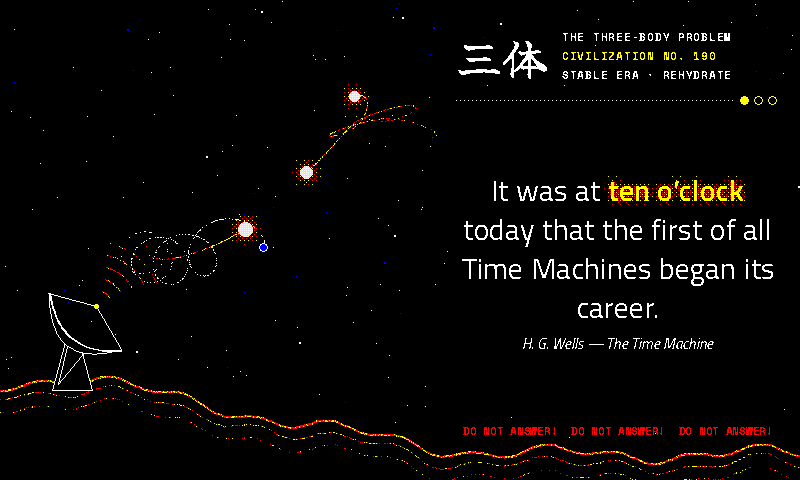
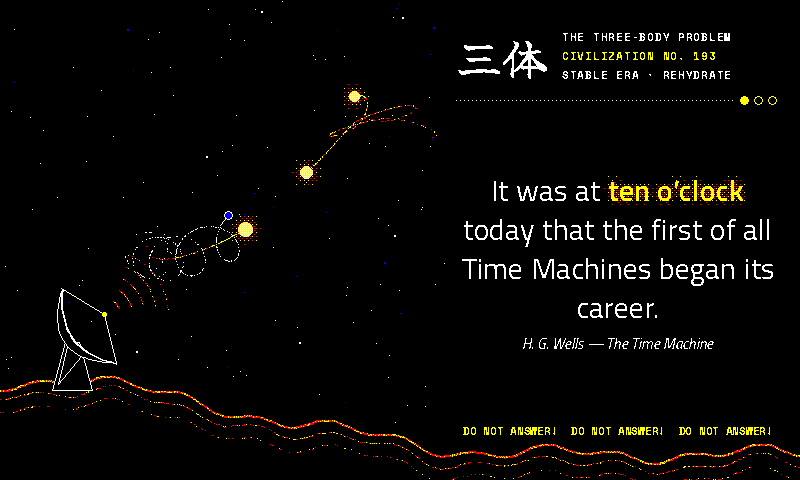
trisolaris: review fixes — physics, aim, legibility, one rasterizer
- Check burn/loss on every leapfrog step, not every sample: one planet per
  day passed through a sun and out again between samples and survived.
- Reborn planets use the circular speed of the softened force law; the
  Keplerian sqrt(m/r) was ~5% fast and started every orbit eccentric.
- Derive the dish axis from the projected barycentre. The hardcoded -52°
  pointed 18° above the system while the docs said it aimed at it.
- Keep stars out of the whole text column; 26 sat inside the masthead,
  header chrome and warning on the committed seed.
- Paint DO NOT ANSWER in solid yellow; solid red at 11px barely clears
  the panel's black.
- Confine sun halos to empty sky so they no longer stipple over the
  dish's wavefronts.
- Merge the two line rasterizers into _trisolaris_stipple_line, and fix
  the wake's yellow share to hot + (1 - hot) * 3/8 as documented.
- Drop the unused image parameter from _trisolaris_paint_header.

New fences: starless text column, dish-aim bearing, softened circular
rebirth, and a step-level watch of the integrator (the stored samples
cannot show a mid-sample pass). Both physics fences were verified failing
against their reintroduced bugs. Golden fixture and preview regenerated.

Claude-Session: https://claude.ai/code/session_01XRkCjyFqSejok2xkonHZ6F

diff --git a/idle_hours/render_quote.py b/idle_hours/render_quote.py
@@ -24275,9 +24275,9 @@ def render_control_frame(time_str: str, quote_row: dict, width: int, height: int
 # any of them that breaks the dance fails a test rather than a panel.
 #
 # **Composition.** The orrery owns the left of the canvas. At the foot, the
-# Red Coast Base dish stands black against the dusk on Radar Peak, its beam
-# dotted up toward the system — Ye Wenjie's transmission, sent with the Sun as
-# an amplifier. The quote sits in the dark sky on the right under a ``三体``
+# Red Coast Base dish stands in white line-work on Radar Peak, aimed at the
+# system's barycentre with a fan of wavefronts leaving its feed — Ye Wenjie's
+# transmission, sent with the Sun as an amplifier. The quote sits in the dark sky on the right under a ``三体``
 # masthead, the matched phrase lit as sunlight (a yellow core in the bakelite
 # split-band tangerine bloom), the prose plain solid white. Along
 # the foot runs the reply from the Trisolaran pacifist that closes the first
@@ -24321,7 +24321,6 @@ _TRISOLARIS_ORRERY_CLIP = (0, 0, 446, 420)
 _TRISOLARIS_COLUMN = (456, 780)        # the quote column's x extent
 _TRISOLARIS_QUOTE_RECT = (456, 118, 780, 372)
 _TRISOLARIS_DISH_X = 72                # the dish pedestal; its y comes from the ridge
-_TRISOLARIS_DISH_AIM_DEG = -52         # screen angle of the dish axis: up and to the right
 _TRISOLARIS_SUN_RADII = (6, 5, 7)
 _TRISOLARIS_STAR_SEED = 0x3B0D1E5
 _TRISOLARIS_WARNING = "DO NOT ANSWER!"
@@ -24376,7 +24375,12 @@ def _trisolaris_rebirth(pos, vel):
                       for j in range(3) if j != i)
         if nearest > best:
             best, home = nearest, i
-    speed = math.sqrt(_TRISOLARIS_MASSES[home] / _TRISOLARIS_REBIRTH_RADIUS)
+    # Circular speed under the *softened* force law the planet actually feels:
+    # v^2 / r = m r / (r^2 + eps^2)^(3/2). The Keplerian sqrt(m / r) is ~5% too
+    # fast at this radius and starts every civilization on an eccentric orbit.
+    r = _TRISOLARIS_REBIRTH_RADIUS
+    q = r * r + _TRISOLARIS_PLANET_SOFTENING2
+    speed = r * math.sqrt(_TRISOLARIS_MASSES[home] / (q * math.sqrt(q)))
     return ([pos[home][0] + _TRISOLARIS_REBIRTH_RADIUS, pos[home][1]],
             [vel[home][0], vel[home][1] + speed])
 
@@ -24427,13 +24431,16 @@ def _trisolaris_ephemeris() -> tuple:
                 vel[i][1] += half * ay[i]
             pv[0] += half * pax
             pv[1] += half * pay
-        burned = any((p[0] - s[0]) * (p[0] - s[0]) + (p[1] - s[1]) * (p[1] - s[1])
-                     < _TRISOLARIS_BURN_RADIUS2 for s in pos)
-        lost = p[0] * p[0] + p[1] * p[1] > _TRISOLARIS_LOST_RADIUS2
-        if burned or lost:
-            civilization += 1
-            p, pv = _trisolaris_rebirth(pos, vel)
-            pax, pay, pulls = _trisolaris_planet_accel(p, pos)
+            # Checked every step, not every sample: a fast pass can dip inside
+            # the burn radius and come back out between two samples, and a
+            # sample-boundary check let one such planet per day survive.
+            burned = any((p[0] - s[0]) * (p[0] - s[0]) + (p[1] - s[1]) * (p[1] - s[1])
+                         < _TRISOLARIS_BURN_RADIUS2 for s in pos)
+            lost = p[0] * p[0] + p[1] * p[1] > _TRISOLARIS_LOST_RADIUS2
+            if burned or lost:
+                civilization += 1
+                p, pv = _trisolaris_rebirth(pos, vel)
+                pax, pay, pulls = _trisolaris_planet_accel(p, pos)
     _TRISOLARIS_EPHEMERIS = tuple(samples)
     return _TRISOLARIS_EPHEMERIS
 
@@ -24497,20 +24504,22 @@ def _trisolaris_ridge_y(x: float) -> int:
 def _trisolaris_paint_sky(image: Image.Image) -> None:
     """Black space and a seeded star field, one star in five a blue one.
 
-    Stars stay out of the quote column and its header, where a stray white
-    pixel beside a letterform reads as a stroke of it.
+    Stars stay out of the whole text column — masthead, quote, byline and
+    warning — where a stray white pixel beside a letterform reads as a stroke
+    of it. Excluding only the quote block left 26 stars inside the header and
+    footer text on the committed seed.
     """
     draw = ImageDraw.Draw(image)
     draw.rectangle((0, 0, 799, 479), fill=SPECTRA6["black"])
     px = image.load()
     rng = random.Random(_TRISOLARIS_STAR_SEED)
-    qx0, qy0, qx1, qy1 = _TRISOLARIS_QUOTE_RECT
+    column_x0 = _TRISOLARIS_COLUMN[0] - 10
     for _ in range(230):
         x = int(rng.random() * 800)
         y = int(rng.random() * 440)
         big = rng.random() < 0.1
         blue = rng.random() < 0.18
-        if qx0 - 6 <= x <= qx1 + 6 and qy0 - 30 <= y <= qy1 + 34:
+        if x >= column_x0 - 1:
             continue
         if y >= _trisolaris_ridge_y(x) - 4:
             continue
@@ -24521,33 +24530,43 @@ def _trisolaris_paint_sky(image: Image.Image) -> None:
             px[x, y] = ink
 
 
-def _trisolaris_plot_segment(px, a, b, ink, keep: float, salt: int, hot: float = 0.0) -> None:
-    """Stipple a straight segment: each pixel along it survives with
-    probability ``keep`` (a position hash, so it is deterministic), clipped to
-    the orrery. ``ink=None`` paints a cooling sun trail instead — yellow with
-    probability ``hot`` and a 3/8 yellow share in the red remainder, so even
-    the oldest wake reads as warm tangerine rather than as the panel's red,
-    which sits within a few luminance points of its black."""
-    cx0, cy0, cx1, cy1 = _TRISOLARIS_ORRERY_CLIP
-    steps = int(max(abs(b[0] - a[0]), abs(b[1] - a[1]))) + 1
-    for k in range(steps):
-        t = k / steps
-        x = int(a[0] + (b[0] - a[0]) * t)
-        y = int(a[1] + (b[1] - a[1]) * t)
-        if cx0 <= x < cx1 and cy0 <= y < cy1 and _flow_stroke_hash(x, y, salt) < keep:
-            if ink is None:
-                roll = _flow_stroke_hash(x, y, salt + 100)
-                warm = roll < hot or roll < 0.375
-                px[x, y] = SPECTRA6["yellow"] if warm else SPECTRA6["red"]
-            else:
-                px[x, y] = ink
+def _trisolaris_stipple_line(px, points, *, salt: int, keep: float = 1.0, width: int = 1,
+                             ink=None, hot: float = 0.0, clip=(0, 0, 800, 480)) -> None:
+    """Stipple a polyline: each pixel along it survives with probability
+    ``keep`` (a position hash, so it is deterministic), clipped to ``clip``.
+
+    ``ink=None`` paints tangerine — yellow with probability
+    ``hot + (1 - hot) * 3/8``, red otherwise — so a warm line reads as warm
+    even at ``hot=0``, where solid red would sit within a few luminance points
+    of the panel's black. Every warm line on the frame (sun wakes, the ridge,
+    the transmission) goes through here; ``hot`` is how a sun's wake starts
+    yellow at the sun and cools toward the 3/8 floor as it ages.
+    """
+    cx0, cy0, cx1, cy1 = clip
+    warm_share = hot + (1.0 - hot) * 0.375
+    for (ax, ay), (bx, by) in zip(points, points[1:]):
+        steps = int(max(abs(bx - ax), abs(by - ay))) + 1
+        for k in range(steps + 1):
+            t = k / steps
+            x0 = int(ax + (bx - ax) * t)
+            y0 = int(ay + (by - ay) * t)
+            for dy in range(width):
+                x, y = x0, y0 + dy
+                if not (cx0 <= x < cx1 and cy0 <= y < cy1) or _flow_stroke_hash(x, y, salt) >= keep:
+                    continue
+                if ink is None:
+                    warm = _flow_stroke_hash(x, y, salt + 100) < warm_share
+                    px[x, y] = SPECTRA6["yellow"] if warm else SPECTRA6["red"]
+                else:
+                    px[x, y] = ink
 
 
 def _trisolaris_paint_orbits(image: Image.Image, index: int) -> None:
     """The last hour of each body's path, cooling as it ages.
 
-    A sun's trail is yellow for its most recent quarter and red behind that,
-    thinning toward the oldest end — a hot body leaving a cooling wake. The
+    A sun's trail starts yellow at the sun and cools to tangerine over its
+    first 40%, thinning toward the oldest end — a hot body leaving a cooling
+    wake. The
     planet's trail is sparse white, and is drawn only back to the planet's most
     recent rebirth: a new civilization begins in a new orbit, and the jump
     between the two is not a path the planet travelled.
@@ -24561,19 +24580,20 @@ def _trisolaris_paint_orbits(image: Image.Image, index: int) -> None:
         keep = 0.85 - 0.7 * age
         before, after = ephemeris[k - 1], ephemeris[k]
         for i in range(3):
-            _trisolaris_plot_segment(px, _trisolaris_project(before[0][i]),
-                                     _trisolaris_project(after[0][i]), None, keep, 40 + i,
-                                     hot=max(0.0, 1.0 - age * 2.5))
+            segment = [_trisolaris_project(before[0][i]), _trisolaris_project(after[0][i])]
+            _trisolaris_stipple_line(px, segment, salt=40 + i, keep=keep,
+                                     hot=max(0.0, 1.0 - age * 2.5), clip=_TRISOLARIS_ORRERY_CLIP)
         if before[3] == ephemeris[index][3]:
-            _trisolaris_plot_segment(px, _trisolaris_project(before[1]),
-                                     _trisolaris_project(after[1]),
-                                     SPECTRA6["white"], keep * 0.7, 47)
+            segment = [_trisolaris_project(before[1]), _trisolaris_project(after[1])]
+            _trisolaris_stipple_line(px, segment, salt=47, keep=keep * 0.7,
+                                     ink=SPECTRA6["white"], clip=_TRISOLARIS_ORRERY_CLIP)
 
 
 def _trisolaris_paint_bodies(image: Image.Image, index: int) -> None:
     """Three suns as gold blooms, then the planet as a blue world with a white
     lit limb. The suns share one mask so two near each other merge into one
-    glare rather than double-exposing."""
+    glare rather than double-exposing. The halo is confined to empty sky, so
+    it dims into the trails and the dish rather than painting over them."""
     sample = _trisolaris_ephemeris()[index]
     mask = Image.new("L", image.size, 0)
     mdraw = ImageDraw.Draw(mask)
@@ -24584,6 +24604,9 @@ def _trisolaris_paint_bodies(image: Image.Image, index: int) -> None:
         radius=6, gamma=1.3, cap=0.75, tile=BAYER_8x8,
         glow_minor=SPECTRA6["yellow"], glow_minor_share=0.375,
         core_minor=SPECTRA6["white"], core_minor_share=0.25,
+        # Only onto empty sky: a sun passing the lower-left of the sky box
+        # would otherwise stipple its halo over the dish's wavefront arcs.
+        ground=frozenset({SPECTRA6["black"], SPECTRA6["blue"]}),
     )
     x, y = _trisolaris_project(sample[1])
     cx0, cy0, cx1, cy1 = _TRISOLARIS_ORRERY_CLIP
@@ -24604,7 +24627,11 @@ def _trisolaris_dish_geometry(ridge_top: int):
     pivot = (x, ridge_top - 46)
     pedestal = [(x - 20, ridge_top + 6), (x - 7, pivot[1] + 4), (x + 7, pivot[1] + 4),
                 (x + 20, ridge_top + 6)]
-    aim = math.radians(_TRISOLARIS_DISH_AIM_DEG)
+    # Aimed at the system's barycentre — the origin of the integration's
+    # coordinates, since the initial conditions carry zero total momentum —
+    # so the transmission points where the three suns actually dance.
+    tx, ty = _trisolaris_project((0.0, 0.0))
+    aim = math.atan2(ty - pivot[1], tx - pivot[0])
     ux, uy = math.cos(aim), math.sin(aim)         # along the dish axis
     vx, vy = -uy, ux                              # across the aperture
     half, depth, back = 46, 21, 9
@@ -24617,23 +24644,6 @@ def _trisolaris_dish_geometry(ridge_top: int):
         rear.append((pivot[0] + half * s * vx + b * ux, pivot[1] + half * s * vy + b * uy))
     feed = (pivot[0] + 40 * ux, pivot[1] + 40 * uy)
     return pedestal, face, rear, pivot, feed, (ux, uy)
-
-
-def _trisolaris_warm_line(px, points, width: int, salt: int, keep: float = 1.0) -> None:
-    """A polyline in tangerine — red carrying a 3/8 yellow share, chosen per
-    pixel by position hash. Solid red is the panel's dimmest ink against its
-    black, so every warm line on this frame goes through here."""
-    for (ax, ay), (bx, by) in zip(points, points[1:]):
-        steps = int(max(abs(bx - ax), abs(by - ay))) + 1
-        for k in range(steps + 1):
-            t = k / steps
-            cx = ax + (bx - ax) * t
-            cy = ay + (by - ay) * t
-            for dy in range(width):
-                x, y = int(cx), int(cy) + dy
-                if 0 <= x < 800 and 0 <= y < 480 and _flow_stroke_hash(x, y, salt) < keep:
-                    warm = _flow_stroke_hash(x, y, salt + 1) < 0.375
-                    px[x, y] = SPECTRA6["yellow"] if warm else SPECTRA6["red"]
 
 
 def _trisolaris_paint_red_coast(image: Image.Image) -> None:
@@ -24655,11 +24665,11 @@ def _trisolaris_paint_red_coast(image: Image.Image) -> None:
     skyline = [(x, _trisolaris_ridge_y(x)) for x in range(0, 801, 4)]
     draw.polygon(skyline + [(800, 480), (0, 480)], fill=SPECTRA6["black"])
     px = image.load()
-    _trisolaris_warm_line(px, skyline, 2, 61)
+    _trisolaris_stipple_line(px, skyline, salt=61, width=2)
     for step, keep in ((11, 0.55), (24, 0.3)):
         contour = [(x, _trisolaris_ridge_y(x) + step + int(3 * math.sin(x * 0.05 + step)))
                    for x in range(0, 801, 4)]
-        _trisolaris_warm_line(px, contour, 1, 63 + step, keep)
+        _trisolaris_stipple_line(px, contour, salt=63 + step, keep=keep)
 
     ridge_top = _trisolaris_ridge_y(_TRISOLARIS_DISH_X)
     pedestal, face, rear, pivot, feed, (ux, uy) = _trisolaris_dish_geometry(ridge_top)
@@ -24683,10 +24693,10 @@ def _trisolaris_paint_red_coast(image: Image.Image) -> None:
         arc = [(feed[0] + radius * math.cos(aim - spread + 2 * spread * k / steps),
                 feed[1] + radius * math.sin(aim - spread + 2 * spread * k / steps))
                for k in range(steps + 1)]
-        _trisolaris_warm_line(px, arc, 1, 91 + ring, keep)
+        _trisolaris_stipple_line(px, arc, salt=91 + ring, keep=keep)
 
 
-def _trisolaris_paint_header(image: Image.Image, draw: ImageDraw.ImageDraw, time_str: str) -> None:
+def _trisolaris_paint_header(draw: ImageDraw.ImageDraw, time_str: str) -> None:
     """``三体`` masthead, the title, the civilization number and the era.
 
     The era carries its own glyph: three small discs for the three suns, one
@@ -24748,7 +24758,11 @@ def _trisolaris_paint_credits(draw: ImageDraw.ImageDraw, quote_row: dict, top: i
 
 
 def _trisolaris_paint_warning(draw: ImageDraw.ImageDraw) -> None:
-    """The pacifist's reply, three times along the foot."""
+    """The pacifist's reply, three times along the foot.
+
+    Solid yellow, not red: at 11px red barely clears the panel's black, and a
+    two-ink tangerine shreds a letterform that small.
+    """
     col_x0, col_x1 = _TRISOLARIS_COLUMN
     font = load_font([SPACEMONO_BOLD, *META_FONT_BOLD_CANDIDATES], 11)
     for repeats in (3, 2, 1):
@@ -24756,7 +24770,7 @@ def _trisolaris_paint_warning(draw: ImageDraw.ImageDraw) -> None:
         width = draw.textlength(text, font=font)
         if width <= col_x1 - col_x0:
             break
-    draw.text(((col_x0 + col_x1 - width) / 2, _TRISOLARIS_WARNING_Y), text, font=font, fill=SPECTRA6["red"])
+    draw.text(((col_x0 + col_x1 - width) / 2, _TRISOLARIS_WARNING_Y), text, font=font, fill=SPECTRA6["yellow"])
 
 
 def render_trisolaris_frame(time_str: str, quote_row: dict, width: int, height: int) -> Image.Image:
@@ -24768,7 +24782,7 @@ def render_trisolaris_frame(time_str: str, quote_row: dict, width: int, height: 
     _trisolaris_paint_red_coast(image)
     _trisolaris_paint_bodies(image, index)
     draw = ImageDraw.Draw(image)
-    _trisolaris_paint_header(image, draw, time_str)
+    _trisolaris_paint_header(draw, time_str)
     bottom = _trisolaris_paint_quote(image, draw, quote_row)
     _trisolaris_paint_credits(draw, quote_row, bottom)
     _trisolaris_paint_warning(draw)

diff --git a/tests/test_render_quote_themes.py b/tests/test_render_quote_themes.py
@@ -4283,6 +4283,71 @@ class TestTrisolarisFrame:
         chaotic = self._render(time_str=eras[False]).crop(header)
         assert pixel_bytes(stable) != pixel_bytes(chaotic)
 
+    def test_stars_stay_out_of_the_text_column(self):
+        """A star beside a letterform reads as a stroke of it, so the whole
+        column — masthead, header chrome, quote, byline, warning — is starless.
+        Excluding only the quote block left 26 stars inside the header and
+        footer text on the committed seed."""
+        image = Image.new("RGB", (800, 480), rq.SPECTRA6["black"])
+        rq._trisolaris_paint_sky(image)
+        column = image.crop((rq._TRISOLARIS_COLUMN[0] - 10, 0, 800, 480))
+        assert distinct_inks(column) == {rq.SPECTRA6["black"]}
+        assert rq.SPECTRA6["white"] in distinct_inks(image), "the star field painted nothing"
+
+    def test_the_dish_aims_at_the_barycentre(self):
+        """The transmission is aimed where the suns dance: the dish axis from
+        its pivot passes through the projected origin of the integration."""
+        ridge = rq._trisolaris_ridge_y(rq._TRISOLARIS_DISH_X)
+        _, _, _, pivot, _, (ux, uy) = rq._trisolaris_dish_geometry(ridge)
+        tx, ty = rq._trisolaris_project((0.0, 0.0))
+        bearing = math.atan2(ty - pivot[1], tx - pivot[0])
+        assert abs(math.atan2(uy, ux) - bearing) < 1e-9
+
+    def test_rebirth_is_circular_under_the_softened_force(self):
+        """The reborn planet's speed relative to its home sun is the circular
+        speed of the force law it actually feels: v^2 / r equals the softened
+        pull. The Keplerian sqrt(m / r) is ~5% fast and starts an eccentric
+        orbit."""
+        pos = [[0.0, 0.0], [40.0, 0.0], [41.0, 0.0]]       # sun 0 is the most isolated
+        vel = [[0.1, -0.2], [0.0, 0.0], [0.0, 0.0]]
+        p, pv = rq._trisolaris_rebirth(pos, vel)
+        r = math.dist(p, pos[0])
+        v = math.dist(pv, vel[0])
+        assert abs(r - rq._TRISOLARIS_REBIRTH_RADIUS) < 1e-12
+        softened_pull = rq._TRISOLARIS_MASSES[0] * r / (r * r + rq._TRISOLARIS_PLANET_SOFTENING2) ** 1.5
+        assert abs(v * v / r - softened_pull) < 1e-9
+        assert v < math.sqrt(rq._TRISOLARIS_MASSES[0] / r) * 0.97
+
+    def test_no_planet_survives_a_pass_inside_a_sun(self, monkeypatch):
+        """The death check runs on every leapfrog step, not every sample.
+
+        Stored samples cannot show this — they are taken after the check under
+        either scheme — so watch the integrator itself: every force evaluation
+        that finds the planet inside a sun's burn radius must be followed
+        immediately by a rebirth. A sample-boundary check let one planet per
+        day pass through a sun and out again between samples.
+        """
+        events = []
+        accel, rebirth = rq._trisolaris_planet_accel, rq._trisolaris_rebirth
+
+        def watched_accel(p, pos):
+            inside = any((p[0] - x) ** 2 + (p[1] - y) ** 2 < rq._TRISOLARIS_BURN_RADIUS2 for x, y in pos)
+            events.append(inside)
+            return accel(p, pos)
+
+        def watched_rebirth(pos, vel):
+            events.append("rebirth")
+            return rebirth(pos, vel)
+
+        monkeypatch.setattr(rq, "_trisolaris_planet_accel", watched_accel)
+        monkeypatch.setattr(rq, "_trisolaris_rebirth", watched_rebirth)
+        monkeypatch.setattr(rq, "_TRISOLARIS_EPHEMERIS", None)
+        rq._trisolaris_ephemeris()
+        burns = [k for k, e in enumerate(events) if e is True]
+        assert burns, "no planet ever came inside a sun — the fence proves nothing"
+        for k in burns:
+            assert events[k + 1] == "rebirth", f"planet survived a pass inside a sun at evaluation {k}"
+
     def test_malformed_time_falls_back_to_the_start_of_the_dial(self):
         assert rq._trisolaris_index("garbage") == rq._trisolaris_index("00:00")
         image = rq.render("garbage", make_row(**self.ROW), 800, 480, mode="production", theme="trisolaris")

diff --git a/CLAUDE.md b/CLAUDE.md
@@ -707,10 +707,10 @@ Two of those additions failed on their first cut, in the same direction: **too m
   - `carcosa` (black night / white Almendra body / solid-yellow matched phrase — **The King in Yellow**, Robert W. Chambers, 1895, staged as the play itself. A literary-layout theme with a heavy `draw_carcosa_border` painter, no `clear_rect` knockout: the decoration keeps to the margins the shared layout leaves free. **Curtains:** a tattered yellow drape down each side (≤ 34 px wide at the rail, so clear of a body column that never starts before x≈60), tied back to a blood-red cord and tassel, its inner edge torn by two incommensurate sines plus a periodic rent, its hem frayed into strands, with moth-holes and black stars eaten through the cloth. Fold creases are a 3 px red shadow under a 1 px black line, the red then Bayer-flipped to the R+Y 5/8:3/8 tangerine so the folds read as shadowed, decaying cloth. **Sky:** a sparse yellow haze across the top margin (a `position_noise` threshold, not a Bayer rank — at ~9% an ordered tile lattices) with six **black stars** rising in it ("Strange is the night where black stars rise"), each a black four-pointed star with a yellow rim, because a black shape has to be outlined to be seen against black. **The Yellow Sign** is centred over the proscenium, and it is an **original glyph**: Chambers never describes the Sign, and the familiar triskelion is a later artist's design, so it is drawn here as three hooked Archimedean arms off a ring, the third arm longer, with a stray dot beneath — almost symmetric, which is the unsettling part. **Lake Hali** along the foot: the twin suns sink half-set on the horizon, the spired towers of Carcosa stand black against them (kept low enough that both suns' crowns stay clear — the city stands against the suns, it does not hide them), a lit slit in the tallest towers, cloud-waves breaking along the shore to the left as rows of white crests, and the suns' reflections breaking into dashes that narrow with depth. The matched phrase is **solid** yellow — the one thing this theme must never do is soften the King's colour — so the inks are the same as `dark`'s by design; the painter and the face are what separate them. Both ornament slots pin to yellow so the Almendra Display quote marks paint solid. The right curtain hangs through the y=14-29 banner band, hence a `_DEBUG_LABEL_RIGHT_INSET` of 46. Every element is `ImageDraw` primitives plus bounds-checked per-pixel passes, with geometry scaled by `min(1, width/800, height/480)` so it clips cleanly at `/api/preview` sizes. No time surface of its own — the matched phrase carries the time. Saturation tier `0.7`.)
   - `control` (white void / black Oswald Bold body / Hiss-red matched phrase, **Remedy's *Control* (2019) — the Astral Plane as a title card**. A custom-render frame (`render_control_frame`). Three of the game's registers stacked on one page: the **Astral Plane** (a flat white void with isometric stone blocks floating in the margins and the Board's inverted black pyramid hanging from the top edge), the **Oldest House** (a brutalist concrete plinth across the foot carrying a black wayfinding sign in white condensed caps — the Bureau's ring-and-triangle device, FEDERAL BUREAU OF CONTROL over THE OLDEST HOUSE), and the **Hiss** (the matched phrase in solid red, bleeding a stippled coral halo into the white). **The blocks are drawn, not dithered plates**: each is three polygons under one upper-left light — a white top, a lit face at 25% black and a shadow face at 56% on the plain `BAYER_8x8` tile, outlined in black — so the flat machined geometry of the Plane comes out exactly; unjittered on purpose, because a jitter would put grain on a surface whose whole character is smoothness. The Board's pyramid is the same construction with its lit face at 68% and its shadow face solid, so it reads as the darkest solid on the page. **The plinth is the opposite surface, and is a dithered plate.** `idle_hours/assets/control_concrete.png` (800×88, produced by `scripts/generate_control_plate.py`) is a continuous-tone sheet of board-formed concrete — the timber grain of the shuttering, a tonal step per formwork panel with a soft recess at each joint, two horizontal lift joints, aggregate pits and lime specks, darkening toward the foot as a wall does below eye level — Floyd–Steinberg-dithered to white+black at render time via `_load_dithered_plate`, the `grimdark` / `letter` plate capability; the first draft's hash-jittered ordered stipple (the `bakelite` moulding recipe) stays as `_control_paint_concrete_stipple`, the fallback for a missing asset. Formwork seams and a row of tie-holes go on top in either case, without which a grey band is just a grey band. **The Hiss is the first bloom on a white ground.** `paint_neon_mask` had only ever lit dark grounds, where a falling density of a bright ink reads as light; a falling density of red on white reads instead as a stain spreading from the phrase, which is what the Hiss does to the House. `ground` is pinned to white so the halo cannot eat the black prose beside it, and the parameters (radius 6, cap 0.62, gamma 1.6) are deliberately heavier than they look correct at 1:1 — the `izakaya` lesson: a bloom tuned at pixel scale vanishes once the panel is box-averaged by viewing distance, and `tests/test_render_quote_themes.py::TestControlFrame` pins that the halo carries at least a fifth of the core's red. The prose is pasted from a *thresholded* mask rather than drawn antialiased: a mid-grey edge pixel is nearer red than black in RGB distance, so the palette snap would speckle black text with red. **Resonance is an echo, never a tear.** Three thin bands of the phrase are repeated a few pixels sideways as a half-density red stipple (`_CONTROL_RESONANCE`), the horizontal signal-tearing the game lays over Hiss-corrupted text — written only onto white, so it can neither cut a glyph of the phrase (the `vhs` lesson: the time phrase is the clock's job) nor overwrite the prose or the bloom. **The Board speaks in pairs**, and that is the attribution: the sign's right half reads `AUTHOR/ORIGIN:` and `WORK/VESSEL:` over the row's own author and title — labels in the Board's diction, values never invented; the column's budget is measured off the painted name run, and a title that still will not fit is shrunk to a floor and then ellipsised through the shared `fit_text_to_width`, never chopped mid-word. **No time surface beyond the matched phrase**: the Plane has no clock and a `SECTOR 07` would be a number bolted on, so `time_str` is `del`-asserted (the `pride` / `outrun` posture) and pinned byte-identical across every time. Composed at the canonical 800×480 and NEAREST-downsampled (the `metro` convention). Saturation tier `0.5` (white ground; the coral halo should stay a stain, not a fire-engine smear).)
   - `trisolaris` (black space / white Titillium Web body / sunlit yellow matched phrase, **Liu Cixin's *The Three-Body Problem* (三体, 2008)** — a custom-render frame (`render_trisolaris_frame`) whose sky is **computed, not drawn**: three suns and a massless planet are integrated under softened Newtonian gravity from committed initial conditions, and the clock advances the integration, so the frame is a *solution* of the three-body problem rather than a picture of one. Each minute of the twelve-hour dial is a fixed slice of simulated time (`_TRISOLARIS_SAMPLES_PER_MINUTE` quarter-minute samples, each `_TRISOLARIS_STEPS_PER_SAMPLE` leapfrog steps); noon and midnight both start the dial, and a 90-minute preroll means 12:00 already has a trail. `_trisolaris_ephemeris` integrates the whole day once per process (~0.1 s on a desktop; memoised because a contact sheet renders 144 frames in one process).
-    **The novel's mechanics fall out of the physics.** In the book's VR game a *stable era* is a stretch in which the planet orbits one sun while the other two are far away; here it is read off the integration — stable when the strongest sun's pull on the planet exceeds the next by `_TRISOLARIS_STABLE_DOMINANCE` — and the header prints `STABLE ERA · REHYDRATE` or `CHAOTIC ERA · DEHYDRATE` (the king's two orders) beside a three-disc glyph, one filled or all three. When the planet falls into a sun or is flung out of the system, that civilization is destroyed: the planet is reborn in a circular orbit about the most isolated sun and `CIVILIZATION NO.` advances, which is how the game numbers its civilizations. The planet's trail is broken at every rebirth so the teleport never draws as a streak (`TestTrisolarisFrame::test_the_planet_trail_breaks_at_a_rebirth`, verified failing against the reintroduced fault).
+    **The novel's mechanics fall out of the physics.** In the book's VR game a *stable era* is a stretch in which the planet orbits one sun while the other two are far away; here it is read off the integration — stable when the strongest sun's pull on the planet exceeds the next by `_TRISOLARIS_STABLE_DOMINANCE` — and the header prints `STABLE ERA · REHYDRATE` or `CHAOTIC ERA · DEHYDRATE` (the king's two orders) beside a three-disc glyph, one filled or all three. When the planet falls into a sun or is flung out of the system, that civilization is destroyed: the planet is reborn in a circular orbit about the most isolated sun and `CIVILIZATION NO.` advances. Both halves of that are done carefully: the burn and loss checks run on **every leapfrog step**, not every sample — a fast pass can dip inside the burn radius and back out between two samples, and the sample-boundary check let one such planet per day survive — and the rebirth speed is the circular speed under the *softened* force law the planet actually feels, `v² = m r² / (r² + ε²)^{3/2}`, because the Keplerian `√(m/r)` is ~5% too fast at the rebirth radius and started every civilization on an eccentric orbit. The counter itself is how the game numbers its civilizations. The planet's trail is broken at every rebirth so the teleport never draws as a streak (`TestTrisolarisFrame::test_the_planet_trail_breaks_at_a_rebirth`, verified failing against the reintroduced fault).
     **Byte-identical everywhere, by construction.** The integrator uses only `+ - * /` and `math.sqrt`, all correctly rounded under IEEE 754; `**` is deliberately kept out of the force law (`r2 * sqrt(r2)`, not `r2 ** 1.5`), because `pow` goes through the platform libm, which is not required to round correctly. Kick-drift-kick leapfrog at a fixed step with Plummer softening — an unsoftened close pass needs an adaptive step, and a step controller's float comparisons would make the frame platform-dependent. A test re-integrates in a fresh interpreter under a different `PYTHONHASHSEED` and compares the last sample's `repr`.
     **The initial conditions were searched, not guessed.** A generic bound three-body system ejects a member within a few dozen crossing times, which would leave the dial showing one sun receding off the panel. The constants were picked by an offline search over random zero-momentum starts for one whose suns stay bound for the whole window *and* whose planet lives through both eras with a handful of civilizations lost per day; `TestTrisolarisFrame` fences all three against the committed constants (plus the barycentre staying at the origin to 1e-9, which is what zero total momentum under pairwise-symmetric forces guarantees — and the point the dish's transmission aims at). The projection is fitted to the suns' whole-day paths, not the planet's: a lost planet flies far outside the system, and fitting it would shrink the suns to a speck.
-    **Composition.** The orrery owns the left of the canvas: each sun a gold bloom (yellow core with a white share, the bakelite split-band tangerine halo), its last hour of path trailing behind as a stipple that cools from yellow to tangerine and thins with age — *tangerine*, not solid red, because the panel's red sits within a few luminance points of its black (`_trisolaris_warm_line` carries every warm line on the frame for that reason). The planet is a blue disc with a white limb and a sparse white trail. At the foot, the Red Coast Base dish stands on Radar Peak as white **line-work** — face, back, feed struts, pedestal — over a tangerine crest line with two fainter contours, and a fan of wavefront arcs leaves its feed: Ye Wenjie's transmission. A black silhouette against a dusk glow was the first cut and failed both ways (the glow read as a red dune field sitting on the ridge, the black dish vanished above it), and a straight beam from dish to suns read as one more orbit trail. The quote sits in the dark sky on the right under a `三体` masthead in the bundled Yuji Boku, the prose solid white and the matched phrase lit as sunlight. The prose's cold blue halo was tried and removed: at radius 2 it read as a blue outline rather than as starlight. Along the foot runs the pacifist's reply that closes the first act, `DO NOT ANSWER!`, repeated as the column allows. **No digit of the time is printed**: the clock drives the simulation and therefore the era; the civilization number counts deaths, not hours. Composed at the canonical 800×480 and NEAREST-downsampled (the `metro` convention). Saturation tier `0.7` (black ground; every light is a falling-density bloom or a sparse stipple).)
+    **Composition.** The orrery owns the left of the canvas: each sun a gold bloom (yellow core with a white share, the bakelite split-band tangerine halo), its last hour of path trailing behind as a stipple that cools from yellow to tangerine and thins with age — *tangerine*, not solid red, because the panel's red sits within a few luminance points of its black (`_trisolaris_stipple_line` carries every warm line on the frame for that reason, and is the frame's one line rasterizer — the wake yellow share is `hot + (1 − hot) · 3/8`, so a wake cools smoothly to the tangerine floor rather than stepping onto it). The sun halos are confined to empty sky (`ground={black, blue}`) so a sun passing the lower-left of the sky box dims into the dish's wavefronts rather than stippling over them. The planet is a blue disc with a white limb and a sparse white trail. At the foot, the Red Coast Base dish stands on Radar Peak as white **line-work** — face, back, feed struts, pedestal — over a tangerine crest line with two fainter contours, and a fan of wavefront arcs leaves its feed: Ye Wenjie's transmission. The dish axis is *derived* — aimed from its pivot at the projected barycentre — rather than hardcoded; an early −52° constant pointed 18° above the system while the docs claimed it aimed at it. A black silhouette against a dusk glow was the first cut and failed both ways (the glow read as a red dune field sitting on the ridge, the black dish vanished above it), and a straight beam from dish to suns read as one more orbit trail. The quote sits in the dark sky on the right under a `三体` masthead in the bundled Yuji Boku, the prose solid white and the matched phrase lit as sunlight. The prose's cold blue halo was tried and removed: at radius 2 it read as a blue outline rather than as starlight. Along the foot runs the pacifist's reply that closes the first act, `DO NOT ANSWER!`, repeated as the column allows, in solid yellow — red barely clears the black at 11px and a two-ink tangerine shreds a letterform that small. Stars are kept out of the entire text column, not just the quote block: excluding only the block left 26 stars sitting inside the masthead, the header chrome and the warning on the committed seed. **No digit of the time is printed**: the clock drives the simulation and therefore the era; the civilization number counts deaths, not hours. Composed at the canonical 800×480 and NEAREST-downsampled (the `metro` convention). Saturation tier `0.7` (black ground; every light is a falling-density bloom or a sparse stipple).)
 - **Fonts.** Typography is per-theme, and each non-default theme deliberately picks a face from a different type *family* so the rendered frame's silhouette changes with the theme — not just its palette. `THEME_FONTS` maps each `THEMES` entry to a dict with `quote_regular` / `quote_bold` / `ornament` candidate chains, each a list of path strings OR `(path, variation_name)` tuples. The tuple form targets variable fonts — `load_font` calls `set_variation_by_name(name)` after the truetype load, so e.g. the scholar theme picks Regular/Bold instances from a single variable `Bitter-Variable.ttf` (whose default axis instance is Thin — a missing variation call would render near-invisible hairlines on the panel). Every per-theme chain ends at the Playfair / DejaVu defaults so a missing-font install degrades to the default face instead of dropping to the PIL bitmap fallback. System metadata / debug strips always use DejaVu / Noto / Liberation Sans regardless of theme. Install `apt install fonts-noto-core fonts-dejavu-core` if the bundled fonts aren't found. When every TTF candidate is missing, `load_font` logs a one-shot warning to stderr before returning `ImageFont.load_default()` so a misconfigured install surfaces instead of silently producing an 8-pixel bitmap render.
   - `default` and `dark` share the Playfair Display chain (transitional / high-contrast serif; repo-local `idle_hours/fonts/`, then common Pi/Linux paths, with DejaVu Serif / Liberation Serif / Noto Serif as system fallbacks).
   - `scholar` uses **Bitter** — a slab serif; even-contrast blocky terminals read as "academic textbook" and sit visually far from Playfair's display-serif silhouette, Regular body + Bold accent.
